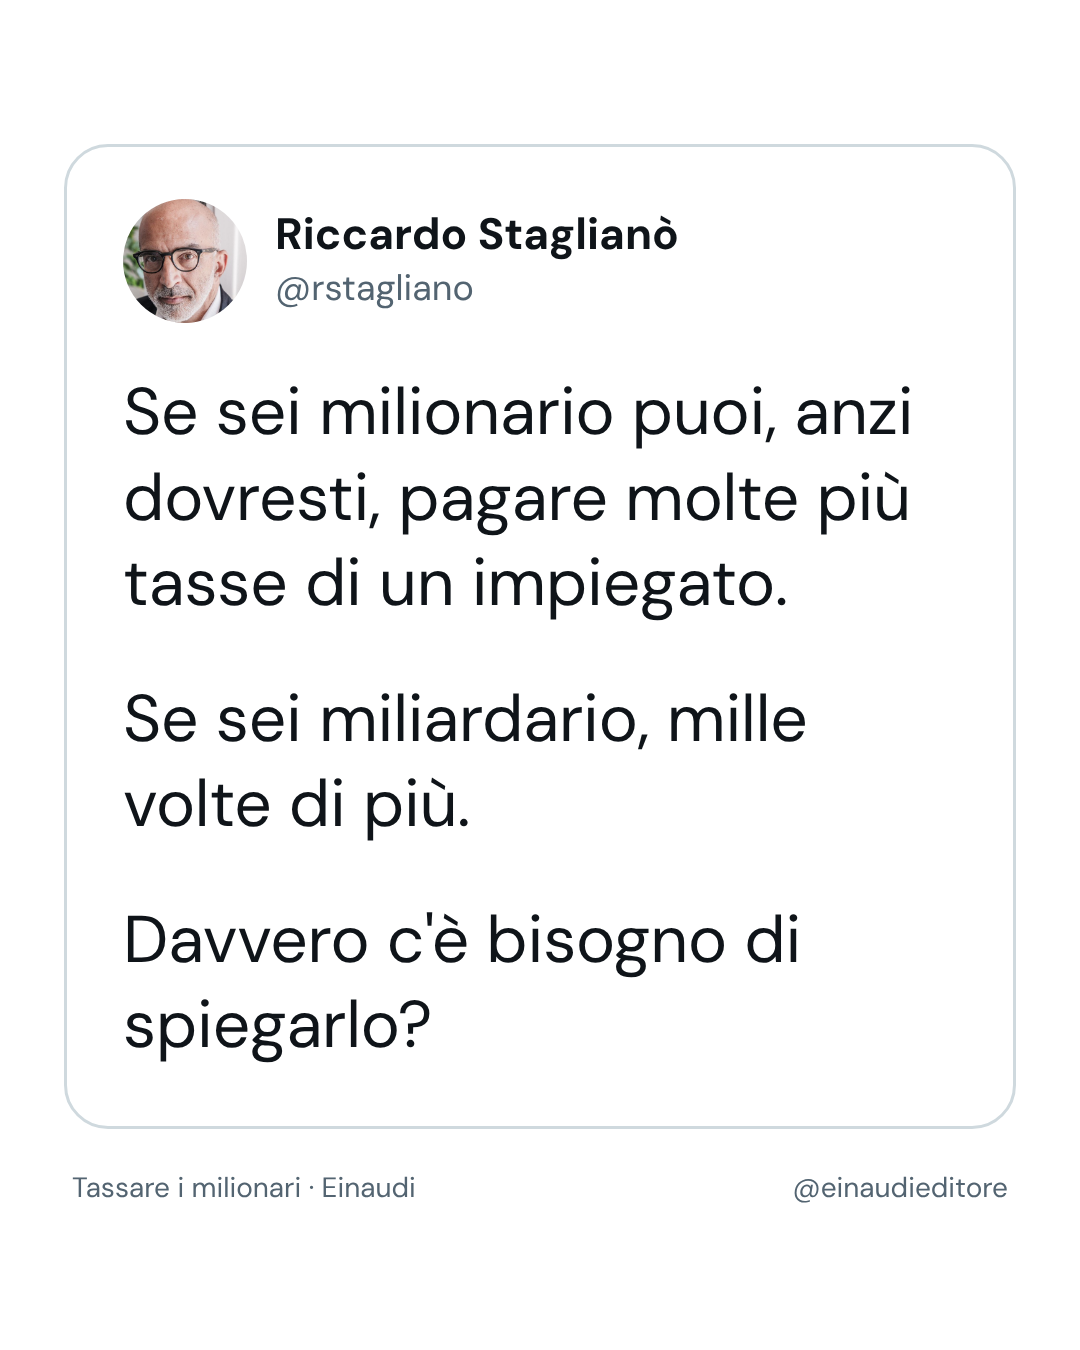
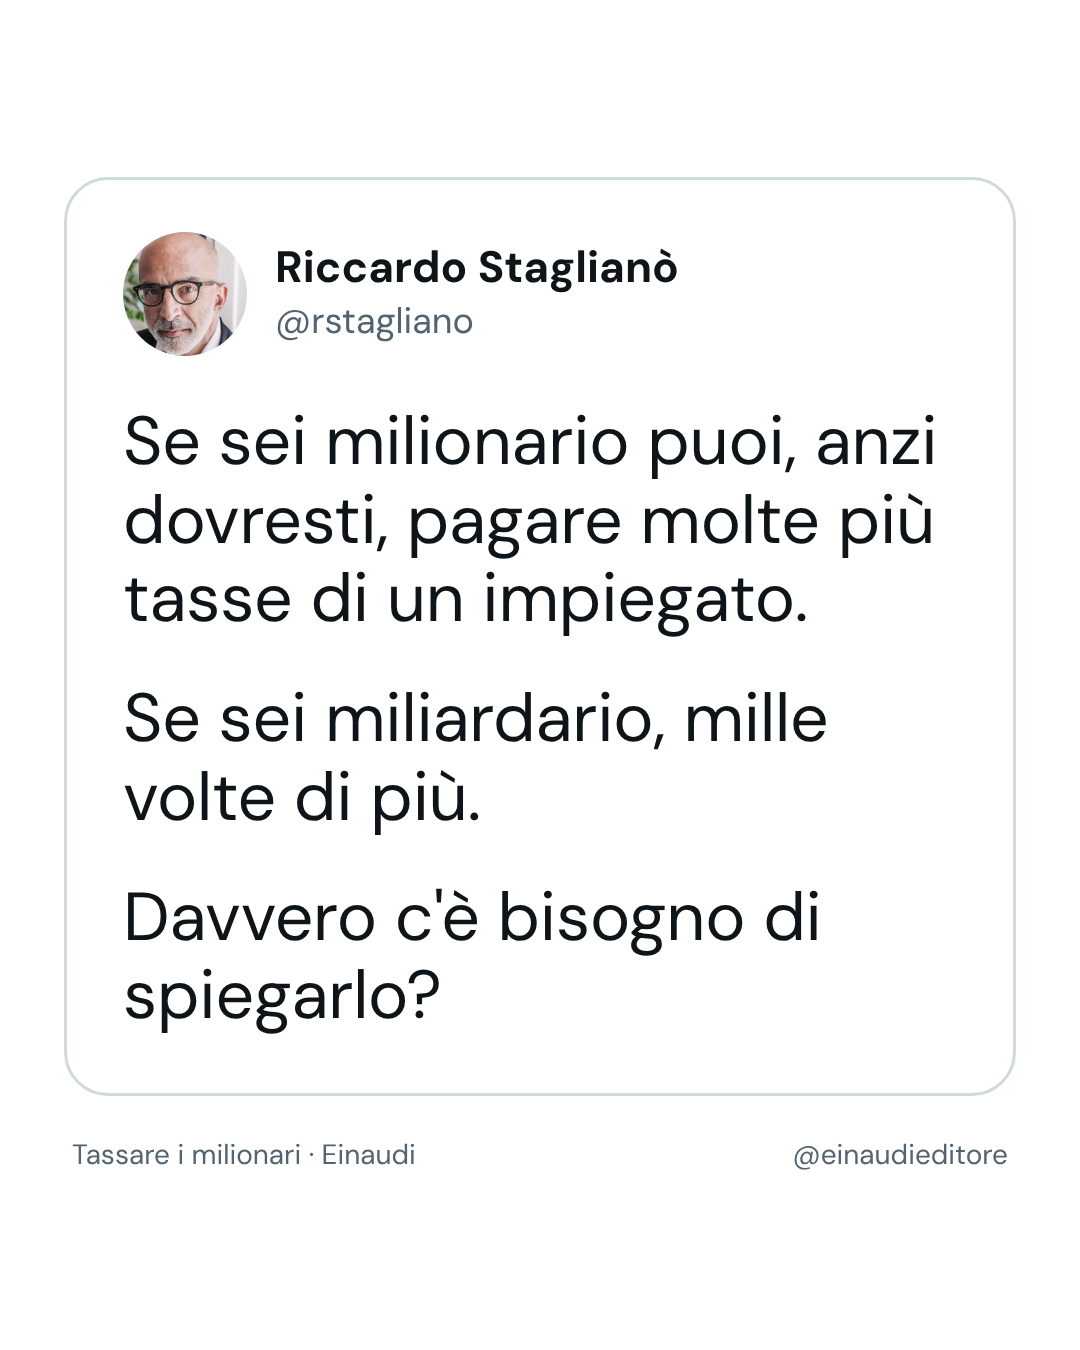
Card stile tweet: interlinea più stretta
Claude-Session: https://claude.ai/code/session_01Kd5zTfsZWUHU33zvDypZz2

diff --git a/novembre/src/html/n02_lap_prof_tedesco.html b/novembre/src/html/n02_lap_prof_tedesco.html
@@ -8,8 +8,8 @@ body{font-family:'DM Sans',sans-serif;color:#0f1419;-webkit-font-smoothing:antia
 .av{width:124px;height:124px;border-radius:50%;flex:none;background-size:cover;background-position:center;display:flex;align-items:center;justify-content:center;font-family:'Barlow Condensed';font-weight:800;font-size:56px}
 .name{font-weight:700;font-size:44px;line-height:1.1;color:#0f1419}
 .handle{font-size:36px;color:#536471;margin-top:6px}
-.txt{font-weight:400;line-height:1.3;letter-spacing:-.2px;color:#0f1419}
-.txt p+p{margin-top:.75em}
+.txt{font-weight:400;line-height:1.16;letter-spacing:-.2px;color:#0f1419}
+.txt p+p{margin-top:.6em}
 .meta{margin-top:40px;font-size:28px;color:#536471;display:flex;justify-content:space-between;padding:0 8px}
 </style></head>
 <body style="background:#fff"><div class="wrap"><div class="card" style="border-color:#cfd9de;background:#fff">

diff --git a/novembre/src/html/n04_lap_crisi_2008.html b/novembre/src/html/n04_lap_crisi_2008.html
@@ -8,8 +8,8 @@ body{font-family:'DM Sans',sans-serif;color:#0f1419;-webkit-font-smoothing:antia
 .av{width:124px;height:124px;border-radius:50%;flex:none;background-size:cover;background-position:center;display:flex;align-items:center;justify-content:center;font-family:'Barlow Condensed';font-weight:800;font-size:56px}
 .name{font-weight:700;font-size:44px;line-height:1.1;color:#0f1419}
 .handle{font-size:36px;color:#536471;margin-top:6px}
-.txt{font-weight:400;line-height:1.3;letter-spacing:-.2px;color:#0f1419}
-.txt p+p{margin-top:.75em}
+.txt{font-weight:400;line-height:1.16;letter-spacing:-.2px;color:#0f1419}
+.txt p+p{margin-top:.6em}
 .meta{margin-top:40px;font-size:28px;color:#536471;display:flex;justify-content:space-between;padding:0 8px}
 </style></head>
 <body style="background:#fff"><div class="wrap"><div class="card" style="border-color:#cfd9de;background:#fff">

diff --git a/novembre/src/html/n06_lap_rendite.html b/novembre/src/html/n06_lap_rendite.html
@@ -8,8 +8,8 @@ body{font-family:'DM Sans',sans-serif;color:#0f1419;-webkit-font-smoothing:antia
 .av{width:124px;height:124px;border-radius:50%;flex:none;background-size:cover;background-position:center;display:flex;align-items:center;justify-content:center;font-family:'Barlow Condensed';font-weight:800;font-size:56px}
 .name{font-weight:700;font-size:44px;line-height:1.1;color:#0f1419}
 .handle{font-size:36px;color:#536471;margin-top:6px}
-.txt{font-weight:400;line-height:1.3;letter-spacing:-.2px;color:#0f1419}
-.txt p+p{margin-top:.75em}
+.txt{font-weight:400;line-height:1.16;letter-spacing:-.2px;color:#0f1419}
+.txt p+p{margin-top:.6em}
 .meta{margin-top:40px;font-size:28px;color:#536471;display:flex;justify-content:space-between;padding:0 8px}
 </style></head>
 <body style="background:#fff"><div class="wrap"><div class="card" style="border-color:#cfd9de;background:#fff">

diff --git a/novembre/src/html/n08_lap_mentone.html b/novembre/src/html/n08_lap_mentone.html
@@ -8,8 +8,8 @@ body{font-family:'DM Sans',sans-serif;color:#0f1419;-webkit-font-smoothing:antia
 .av{width:124px;height:124px;border-radius:50%;flex:none;background-size:cover;background-position:center;display:flex;align-items:center;justify-content:center;font-family:'Barlow Condensed';font-weight:800;font-size:56px}
 .name{font-weight:700;font-size:44px;line-height:1.1;color:#0f1419}
 .handle{font-size:36px;color:#536471;margin-top:6px}
-.txt{font-weight:400;line-height:1.3;letter-spacing:-.2px;color:#0f1419}
-.txt p+p{margin-top:.75em}
+.txt{font-weight:400;line-height:1.16;letter-spacing:-.2px;color:#0f1419}
+.txt p+p{margin-top:.6em}
 .meta{margin-top:40px;font-size:28px;color:#536471;display:flex;justify-content:space-between;padding:0 8px}
 </style></head>
 <body style="background:#fff"><div class="wrap"><div class="card" style="border-color:#cfd9de;background:#fff">

diff --git a/novembre/src/html/n10_lap_zucman.html b/novembre/src/html/n10_lap_zucman.html
@@ -8,8 +8,8 @@ body{font-family:'DM Sans',sans-serif;color:#0f1419;-webkit-font-smoothing:antia
 .av{width:124px;height:124px;border-radius:50%;flex:none;background-size:cover;background-position:center;display:flex;align-items:center;justify-content:center;font-family:'Barlow Condensed';font-weight:800;font-size:56px}
 .name{font-weight:700;font-size:44px;line-height:1.1;color:#0f1419}
 .handle{font-size:36px;color:#536471;margin-top:6px}
-.txt{font-weight:400;line-height:1.3;letter-spacing:-.2px;color:#0f1419}
-.txt p+p{margin-top:.75em}
+.txt{font-weight:400;line-height:1.16;letter-spacing:-.2px;color:#0f1419}
+.txt p+p{margin-top:.6em}
 .meta{margin-top:40px;font-size:28px;color:#536471;display:flex;justify-content:space-between;padding:0 8px}
 </style></head>
 <body style="background:#fff"><div class="wrap"><div class="card" style="border-color:#cfd9de;background:#fff">

diff --git a/novembre/src/html/n12_lap_segreto_bancario.html b/novembre/src/html/n12_lap_segreto_bancario.html
@@ -8,8 +8,8 @@ body{font-family:'DM Sans',sans-serif;color:#0f1419;-webkit-font-smoothing:antia
 .av{width:124px;height:124px;border-radius:50%;flex:none;background-size:cover;background-position:center;display:flex;align-items:center;justify-content:center;font-family:'Barlow Condensed';font-weight:800;font-size:56px}
 .name{font-weight:700;font-size:44px;line-height:1.1;color:#0f1419}
 .handle{font-size:36px;color:#536471;margin-top:6px}
-.txt{font-weight:400;line-height:1.3;letter-spacing:-.2px;color:#0f1419}
-.txt p+p{margin-top:.75em}
+.txt{font-weight:400;line-height:1.16;letter-spacing:-.2px;color:#0f1419}
+.txt p+p{margin-top:.6em}
 .meta{margin-top:40px;font-size:28px;color:#536471;display:flex;justify-content:space-between;padding:0 8px}
 </style></head>
 <body style="background:#fff"><div class="wrap"><div class="card" style="border-color:#cfd9de;background:#fff">

diff --git a/novembre/src/html/n14_lap_quota_ricchezza.html b/novembre/src/html/n14_lap_quota_ricchezza.html
@@ -8,8 +8,8 @@ body{font-family:'DM Sans',sans-serif;color:#0f1419;-webkit-font-smoothing:antia
 .av{width:124px;height:124px;border-radius:50%;flex:none;background-size:cover;background-position:center;display:flex;align-items:center;justify-content:center;font-family:'Barlow Condensed';font-weight:800;font-size:56px}
 .name{font-weight:700;font-size:44px;line-height:1.1;color:#0f1419}
 .handle{font-size:36px;color:#536471;margin-top:6px}
-.txt{font-weight:400;line-height:1.3;letter-spacing:-.2px;color:#0f1419}
-.txt p+p{margin-top:.75em}
+.txt{font-weight:400;line-height:1.16;letter-spacing:-.2px;color:#0f1419}
+.txt p+p{margin-top:.6em}
 .meta{margin-top:40px;font-size:28px;color:#536471;display:flex;justify-content:space-between;padding:0 8px}
 </style></head>
 <body style="background:#fff"><div class="wrap"><div class="card" style="border-color:#cfd9de;background:#fff">

diff --git a/novembre/src/html/n16_lap_black_friday.html b/novembre/src/html/n16_lap_black_friday.html
@@ -8,8 +8,8 @@ body{font-family:'DM Sans',sans-serif;color:#0f1419;-webkit-font-smoothing:antia
 .av{width:124px;height:124px;border-radius:50%;flex:none;background-size:cover;background-position:center;display:flex;align-items:center;justify-content:center;font-family:'Barlow Condensed';font-weight:800;font-size:56px}
 .name{font-weight:700;font-size:44px;line-height:1.1;color:#0f1419}
 .handle{font-size:36px;color:#536471;margin-top:6px}
-.txt{font-weight:400;line-height:1.3;letter-spacing:-.2px;color:#0f1419}
-.txt p+p{margin-top:.75em}
+.txt{font-weight:400;line-height:1.16;letter-spacing:-.2px;color:#0f1419}
+.txt p+p{margin-top:.6em}
 .meta{margin-top:40px;font-size:28px;color:#536471;display:flex;justify-content:space-between;padding:0 8px}
 </style></head>
 <body style="background:#fff"><div class="wrap"><div class="card" style="border-color:#cfd9de;background:#fff">

diff --git a/novembre/src/html/n18_lap_davvero.html b/novembre/src/html/n18_lap_davvero.html
@@ -8,8 +8,8 @@ body{font-family:'DM Sans',sans-serif;color:#0f1419;-webkit-font-smoothing:antia
 .av{width:124px;height:124px;border-radius:50%;flex:none;background-size:cover;background-position:center;display:flex;align-items:center;justify-content:center;font-family:'Barlow Condensed';font-weight:800;font-size:56px}
 .name{font-weight:700;font-size:44px;line-height:1.1;color:#0f1419}
 .handle{font-size:36px;color:#536471;margin-top:6px}
-.txt{font-weight:400;line-height:1.3;letter-spacing:-.2px;color:#0f1419}
-.txt p+p{margin-top:.75em}
+.txt{font-weight:400;line-height:1.16;letter-spacing:-.2px;color:#0f1419}
+.txt p+p{margin-top:.6em}
 .meta{margin-top:40px;font-size:28px;color:#536471;display:flex;justify-content:space-between;padding:0 8px}
 </style></head>
 <body style="background:#fff"><div class="wrap"><div class="card" style="border-color:#cfd9de;background:#fff">

diff --git a/novembre/x/html/x02_norvegia_lugano.html b/novembre/x/html/x02_norvegia_lugano.html
@@ -8,8 +8,8 @@ body{font-family:'DM Sans',sans-serif;color:#0f1419;-webkit-font-smoothing:antia
 .av{width:124px;height:124px;border-radius:50%;flex:none;background-size:cover;background-position:center;display:flex;align-items:center;justify-content:center;font-family:'Barlow Condensed';font-weight:800;font-size:56px}
 .name{font-weight:700;font-size:44px;line-height:1.1;color:#0f1419}
 .handle{font-size:36px;color:#536471;margin-top:6px}
-.txt{font-weight:400;line-height:1.3;letter-spacing:-.2px;color:#0f1419}
-.txt p+p{margin-top:.75em}
+.txt{font-weight:400;line-height:1.16;letter-spacing:-.2px;color:#0f1419}
+.txt p+p{margin-top:.6em}
 .meta{margin-top:40px;font-size:28px;color:#536471;display:flex;justify-content:space-between;padding:0 8px}
 </style></head>
 <body style="background:#fff"><div class="wrap"><div class="card" style="border-color:#cfd9de;background:#fff">

diff --git a/novembre/x/html/x03_travaso_sole24ore.html b/novembre/x/html/x03_travaso_sole24ore.html
@@ -8,8 +8,8 @@ body{font-family:'DM Sans',sans-serif;color:#0f1419;-webkit-font-smoothing:antia
 .av{width:124px;height:124px;border-radius:50%;flex:none;background-size:cover;background-position:center;display:flex;align-items:center;justify-content:center;font-family:'Barlow Condensed';font-weight:800;font-size:56px}
 .name{font-weight:700;font-size:44px;line-height:1.1;color:#0f1419}
 .handle{font-size:36px;color:#536471;margin-top:6px}
-.txt{font-weight:400;line-height:1.3;letter-spacing:-.2px;color:#0f1419}
-.txt p+p{margin-top:.75em}
+.txt{font-weight:400;line-height:1.16;letter-spacing:-.2px;color:#0f1419}
+.txt p+p{margin-top:.6em}
 .meta{margin-top:40px;font-size:28px;color:#536471;display:flex;justify-content:space-between;padding:0 8px}
 </style></head>
 <body style="background:#fff"><div class="wrap"><div class="card" style="border-color:#cfd9de;background:#fff">

diff --git a/novembre/x/html/x04_irpef_1974.html b/novembre/x/html/x04_irpef_1974.html
@@ -8,8 +8,8 @@ body{font-family:'DM Sans',sans-serif;color:#0f1419;-webkit-font-smoothing:antia
 .av{width:124px;height:124px;border-radius:50%;flex:none;background-size:cover;background-position:center;display:flex;align-items:center;justify-content:center;font-family:'Barlow Condensed';font-weight:800;font-size:56px}
 .name{font-weight:700;font-size:44px;line-height:1.1;color:#0f1419}
 .handle{font-size:36px;color:#536471;margin-top:6px}
-.txt{font-weight:400;line-height:1.3;letter-spacing:-.2px;color:#0f1419}
-.txt p+p{margin-top:.75em}
+.txt{font-weight:400;line-height:1.16;letter-spacing:-.2px;color:#0f1419}
+.txt p+p{margin-top:.6em}
 .meta{margin-top:40px;font-size:28px;color:#536471;display:flex;justify-content:space-between;padding:0 8px}
 </style></head>
 <body style="background:#fff"><div class="wrap"><div class="card" style="border-color:#cfd9de;background:#fff">
